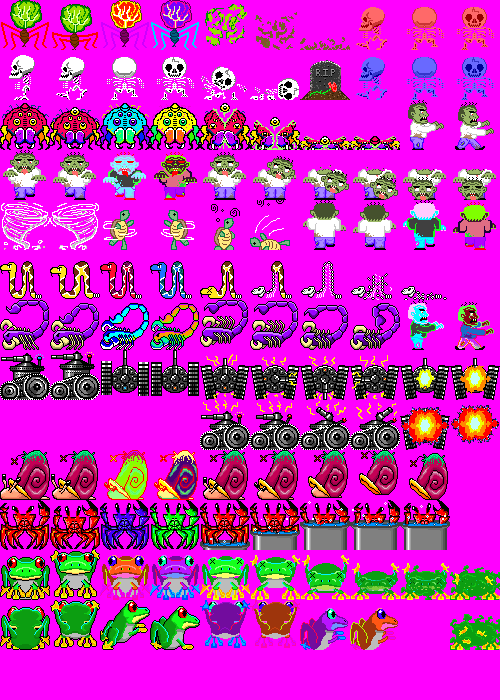
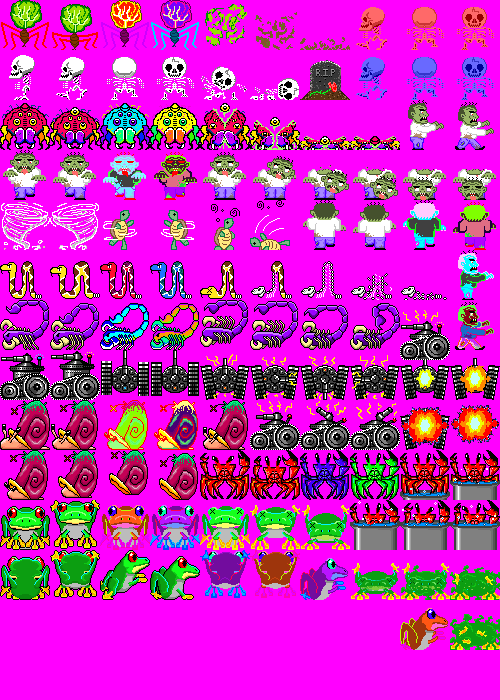
Enemy simplification/sheet arrangement.

diff --git a/data/components/enemy_sprites.py b/data/components/enemy_sprites.py
@@ -18,14 +18,16 @@ ENEMY_COORDS = {
     "skeleton" : [(0,1),(1,1),(2,1),(3,1),(4,1),(5,1),
                   (7,1),(7,0),(8,1),(8,0),(9,1),(9,0)],
     "tank" : [(0,7),(1,7),(2,7),(3,7),(4,7),(5,7),(6,7),(7,7),
-              (4,8),(5,8),(6,8),(7,8),(8,7),(9,7),(8,8)],
-    "frog" : [(0,11),(1,11),(0,12),(1,12),(2,12),(3,12),
-              (2,11),(3,11),(4,11),(5,11),(6,11),(7,11),
-              (8,11),(9,11),(9,12),(4,12),(5,12),(6,12),(7,12)],
-    "crab" : [(0,10),(1,10),(2,10),(3,10),(4,10),(5,10),(6,10),(7,10),(8,10)],
+              (8,6),(5,8),(6,8),(7,8),(8,7),(9,7),(8,8)],
+
+    "frog" : [(0,10),(1,10),(0,11),(1,11),(2,11),(3,11),
+              (2,10),(3,10),(4,11),(5,11),(6,11),(8,12),
+              (4,10),(5,10),(6,10),(7,11),(8,11),(9,11),(9,12)],
+
+    "crab" : [(4,9),(5,9),(6,9),(7,9),(8,9),(9,9),(7,10),(8,10),(9,10)],
     "zombie" : [(0,3),(1,3),(6,4),(7,4),(8,2),(9,2),(2,3),(3,3),(8,4),(9,4),
-                (8,6),(9,6),(4,3),(5,3),(6,3),(7,3),(8,3),(9,3)],
-    "snail" : [(0,9),(1,9),(2,9),(3,9),(4,9),(5,9),(6,9),(7,9),(8,9)],
+                (9,5),(9,6),(4,3),(5,3),(6,3),(7,3),(8,3),(9,3)],
+    "snail" : [(0,8),(1,8),(2,8),(3,8),(4,8),(0,9),(1,9),(2,9),(3,9)],
     "mushroom" : [(0,0),(1,0),(2,0),(3,0),(4,0),(5,0),
                   (6,0),(7,0),(8,0),(9,0),(9,1)],
     "blue_oni" : [(0,1),(1,1),(4,1),(7,1),(8,1),(2,1),(3,1),(5,1),(0,2),
@@ -36,7 +38,7 @@ ENEMY_COORDS = {
                 (0,6),(1,6),(2,6),(3,6),(4,6),(5,6),(6,4),(7,4),(8,4),(9,4)],
     "lantern" : [(0,7),(1,7),(6,6),(7,6),(2,7),(3,7),(4,7),
                  (5,7),(6,7),(7,7),(8,7),(9,7),(9,6)],
-    "evil_elf" : [(0,8),(1,8),(2,8),(3,8),(4,8),(5,8),(6,8),(7,8)],
+    "evil_self" : [(0,8),(1,8),(2,8),(3,8),(4,8),(5,8),(6,8),(7,8)],
     "knight" : [(0,11),(1,11),(2,11),(3,11),(4,11),(5,11),
                 (6,11),(7,11),(0,12),(1,12),(2,12),(3,12)]}
 
@@ -302,59 +304,112 @@ class _Enemy(pg.sprite.Sprite):
         surface.blit(self.image, self.rect)
 
 
-class Cabbage(_Enemy):
-    """The eponymous Cabbage monster. (1 direction)"""
+class _BasicFrontFrames(_Enemy):
+    """
+    Used for enemy sprites that only have frames in 1 direction.
+    Include: Cabbage, Spider, Turtle, Crab.
+    """
     def __init__(self, *args):
-        _Enemy.__init__(self, "cabbage", ENEMY_SHEET, *args)
+        _Enemy.__init__(self, *args)
         self.anims = {"walk" : tools.Anim(self.frames[:2], 7),
                       "hit" : tools.Anim(self.frames[2:4], 20),
-                      "die" : tools.Anim(self.frames[4:], 5, 1)}
+                      "die" : None} #Set die in specific class declaration.
         self.image = self.get_anim().get_next_frame(pg.time.get_ticks())
+
+
+class _SideFramesOnly(_Enemy):
+    """
+    Used for enemy sprites that only have frames for the right and left sides.
+    The right frames are flipped versions of the left.
+    Include: Snake, Scorpion, Snail.
+    """
+    def __init__(self, *args):
+        _Enemy.__init__(self, *args)
+        self.anim_directions = ["left", "right"]
+        self.anim_direction = random.choice(self.anim_directions)
+        self.ai = LinearAI(self)
+        walk = {"left" : tools.Anim(self.frames[:2], 7),
+                "right" : tools.Anim([pg.transform.flip(self.frames[0], 1, 0),
+                                pg.transform.flip(self.frames[1], 1, 0)], 7)}
+        hit = {"left" : tools.Anim(self.frames[2:4], 20),
+               "right" : tools.Anim([pg.transform.flip(self.frames[2], 1, 0),
+                                pg.transform.flip(self.frames[3], 1, 0)], 20)}
+        die_frames = self.frames[4:]+[self.frames[-1]]
+        flipped_die = [pg.transform.flip(frame, 1, 0) for frame in die_frames]
+        die = {"left" : tools.Anim(self.frames[4:], 5, 1),
+               "right" : tools.Anim(flipped_die, 5, 1)}
+        self.anims = {"walk" : walk, "hit" : hit, "die" : die}
+        self.image = self.get_anim().get_next_frame(pg.time.get_ticks())
+
+
+class Cabbage(_BasicFrontFrames):
+    """The eponymous Cabbage monster. (1 direction)"""
+    def __init__(self, *args):
+        _BasicFrontFrames.__init__(self, "cabbage", ENEMY_SHEET, *args)
+        die_frames = self.frames[4:]+[self.frames[-1]]
+        self.anims["die"] = tools.Anim(die_frames, 5, 1)
         self.health = 3
         self.attack = 4
         self.drops = ["heart"]
 
 
-class Spider(_Enemy):
+class Spider(_BasicFrontFrames):
     """Spider like monster; shoots webs (not implemented) (1 direction)."""
     def __init__(self, *args):
-        _Enemy.__init__(self, "spider", ENEMY_SHEET, *args)
-        death_frames = self.frames[4:6]+self.frames[6:]*2
-        self.anims = {"walk" : tools.Anim(self.frames[:2], 7),
-                      "hit" : tools.Anim(self.frames[2:4], 20),
-                      "die" : tools.Anim(death_frames, 5, 1)}
-        self.image = self.get_anim().get_next_frame(pg.time.get_ticks())
+        _BasicFrontFrames.__init__(self, "spider", ENEMY_SHEET, *args)
+        die_frames = self.frames[4:6]+self.frames[6:]*2
+        self.anims["die"] = tools.Anim(die_frames, 5, 1)
         self.health = 6
         self.attack = 6
         self.drops = ["diamond", None]
 
 
-class Crab(_Enemy):
+class Crab(_BasicFrontFrames):
     """Irritated crab. Shoots bubbles (not implemented) (1 direction)."""
     def __init__(self, *args):
-        _Enemy.__init__(self, "crab", ENEMY_SHEET, *args)
-        death_frames = self.frames[4:7]+self.frames[7:]*2
-        self.anims = {"walk" : tools.Anim(self.frames[:2], 7),
-                      "hit" : tools.Anim(self.frames[2:4], 20),
-                      "die" : tools.Anim(death_frames, 5, 1)}
-        self.image = self.get_anim().get_next_frame(pg.time.get_ticks())
+        _BasicFrontFrames.__init__(self, "crab", ENEMY_SHEET, *args)
+        die_frames = self.frames[4:7]+self.frames[7:]*2
+        self.anims["die"] = tools.Anim(die_frames, 5, 1)
         self.health = 6
         self.attack = 6
         self.drops = [None, None, "diamond"]
 
 
-class Turtle(_Enemy):
-    """Spider like monster; shoots webs (not implemented) (1 direction)."""
+class Turtle(_BasicFrontFrames):
+    """Spinning tornado turtle (1 direction)."""
     def __init__(self, *args):
-        _Enemy.__init__(self, "turtle", ENEMY_SHEET, *args)
-        death_frames = self.frames[2:5]+[self.frames[5]]*2
-        self.anims = {"walk" : tools.Anim(self.frames[:2], 7),
-                      "hit" : tools.Anim(self.frames[2:4], 20),
-                      "die" : tools.Anim(death_frames, 5, 1)}
-        self.image = self.get_anim().get_next_frame(pg.time.get_ticks())
+        _BasicFrontFrames.__init__(self, "turtle", ENEMY_SHEET, *args)
+        die_frames = self.frames[2:5]+[self.frames[5]]*2
+        self.anims["die"] = tools.Anim(die_frames, 5, 1)
         self.health = 12
         self.attack = 6
         self.drops = [None]
+
+
+class Snake(_SideFramesOnly):
+    """An annoying snake. (2 directions)"""
+    def __init__(self, *args):
+        _SideFramesOnly.__init__(self, "snake", ENEMY_SHEET, *args)
+        self.health = 6
+        self.attack = 6
+        self.drops = ["diamond", "potion", None, None]
+
+
+class Scorpion(_SideFramesOnly):
+    """A high damage scorpion. (2 directions)"""
+    def __init__(self, *args):
+        _SideFramesOnly.__init__(self, "scorpion", ENEMY_SHEET, *args)
+        self.health = 6
+        self.attack = 10
+        self.drops = ["heart", None]
+
+class Snail(_SideFramesOnly):
+    """A toxic trail leaving snail (not implemented). (2 directions)"""
+    def __init__(self, *args):
+        _SideFramesOnly.__init__(self, "snail", ENEMY_SHEET, *args)
+        self.health = 10
+        self.attack = 8
+        self.drops = ["diamond", "heart", None, None]
 
 
 class Zombie(_Enemy):
@@ -382,53 +437,28 @@ class Zombie(_Enemy):
         self.drops = ["key"]
 
 
-class Snake(_Enemy):
-    """An annoying snake. (2 directions)"""
+class Frog(_Enemy):
+    """Your standard hoppy frog (4 directions)"""
     def __init__(self, *args):
-        _Enemy.__init__(self, "snake", ENEMY_SHEET, *args)
-        self.anim_directions = ["left", "right"]
-        self.anim_direction = random.choice(self.anim_directions)
-        self.ai = LinearAI(self)
-        walk = {"left" : tools.Anim(self.frames[:2], 7),
-                "right" : tools.Anim([pg.transform.flip(self.frames[0], 1, 0),
-                                pg.transform.flip(self.frames[1], 1, 0)], 7)}
-        hit = {"left" : tools.Anim(self.frames[2:4], 20),
-               "right" : tools.Anim([pg.transform.flip(self.frames[2], 1, 0),
-                                pg.transform.flip(self.frames[3], 1, 0)], 20)}
-        flipped_die = [pg.transform.flip(f, 1, 0) for f in self.frames[4:]]
-        die = {"left" : tools.Anim(self.frames[4:], 5, 1),
-               "right" : tools.Anim(flipped_die, 5, 1)}
+        _Enemy.__init__(self,  "frog", ENEMY_SHEET, *args)
+        walk = {"front" : tools.Anim(self.frames[:2], 7),
+                "back" : tools.Anim(self.frames[2:4], 7),
+                "left" : tools.Anim([pg.transform.flip(self.frames[4], 1, 0),
+                               pg.transform.flip(self.frames[5], 1, 0)], 7),
+                "right" : tools.Anim(self.frames[4:6], 7)}
+        hit = {"front" : tools.Anim(self.frames[6:8], 20),
+               "back" : tools.Anim(self.frames[8:10], 20),
+               "left" : tools.Anim([pg.transform.flip(self.frames[10], 1, 0),
+                               pg.transform.flip(self.frames[11], 1, 0)], 20),
+               "right" : tools.Anim(self.frames[10:12], 20)}
+        die_frames = self.frames[12:]
         self.anims = {"walk" : walk,
                       "hit" : hit,
-                      "die" : die}
+                      "die" : tools.Anim(die_frames, 5, 1)}
         self.image = self.get_anim().get_next_frame(pg.time.get_ticks())
         self.health = 6
         self.attack = 6
-        self.drops = ["diamond", "potion"]
-
-
-class Scorpion(_Enemy):
-    """A high damage scorpion. (2 directions)"""
-    def __init__(self, *args):
-        _Enemy.__init__(self, "scorpion", ENEMY_SHEET, *args)
-        self.anim_directions = ["left", "right"]
-        self.anim_direction = random.choice(self.anim_directions)
-        walk = {"left" : tools.Anim(self.frames[:2], 7),
-                "right" : tools.Anim([pg.transform.flip(self.frames[0], 1, 0),
-                                pg.transform.flip(self.frames[1], 1, 0)], 7)}
-        hit = {"left" : tools.Anim(self.frames[2:4], 20),
-               "right" : tools.Anim([pg.transform.flip(self.frames[2], 1, 0),
-                                pg.transform.flip(self.frames[3], 1, 0)], 20)}
-        flipped_die = [pg.transform.flip(f, 1, 0) for f in self.frames[4:]]
-        die = {"left" : tools.Anim(self.frames[4:], 5, 1),
-               "right" : tools.Anim(flipped_die, 5, 1)}
-        self.anims = {"walk" : walk,
-                      "hit" : hit,
-                      "die" : die}
-        self.image = self.get_anim().get_next_frame(pg.time.get_ticks())
-        self.health = 6
-        self.attack = 10
-        self.drops = ["heart", None]
+        self.drops = ["heart", None, None]
 
 
 class Skeleton(_Enemy):
@@ -460,9 +490,9 @@ class Skeleton(_Enemy):
 
 ENEMY_DICT = {(0, 0) : Cabbage,
               (50, 0) : Spider,
-              (100, 0) : None, #Frog,
+              (100, 0) : Frog,
               (150, 0) : None, #Mushroom,
-              (200, 0) : None, #Snail,
+              (200, 0) : Snail,
               (250, 0) : Crab,
               (300, 0) : Skeleton,
               (350, 0) : Zombie,

diff --git a/data/components/item_sprites.py b/data/components/item_sprites.py
@@ -143,7 +143,7 @@ class Key(_Item):
 
 
 def make_equip_drop(GearClass):
-    """Given a equipment class, return a corresponding drop item class."""
+    """Given an equipment class, return a corresponding drop item class."""
     class EquipDrop(_Item):
         """This class works for creating drops for all equipment."""
         def __init__(self, pos, dur, chest=False, ident=None, *groups):
